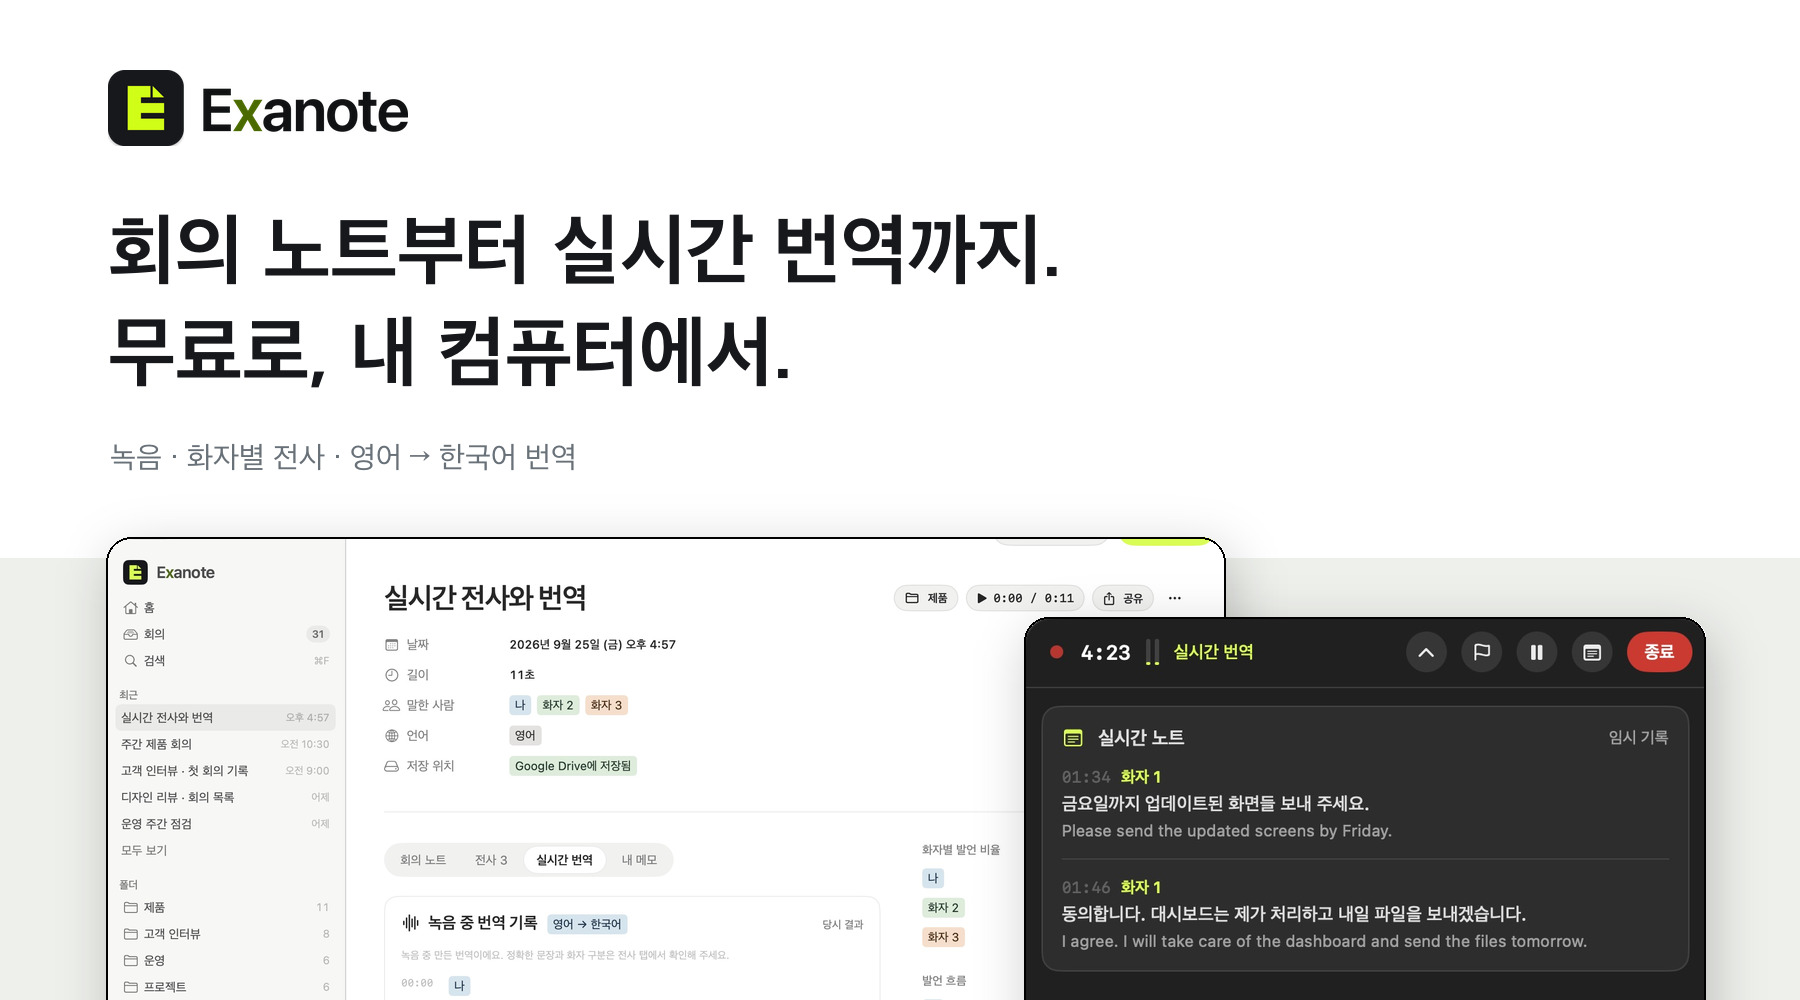
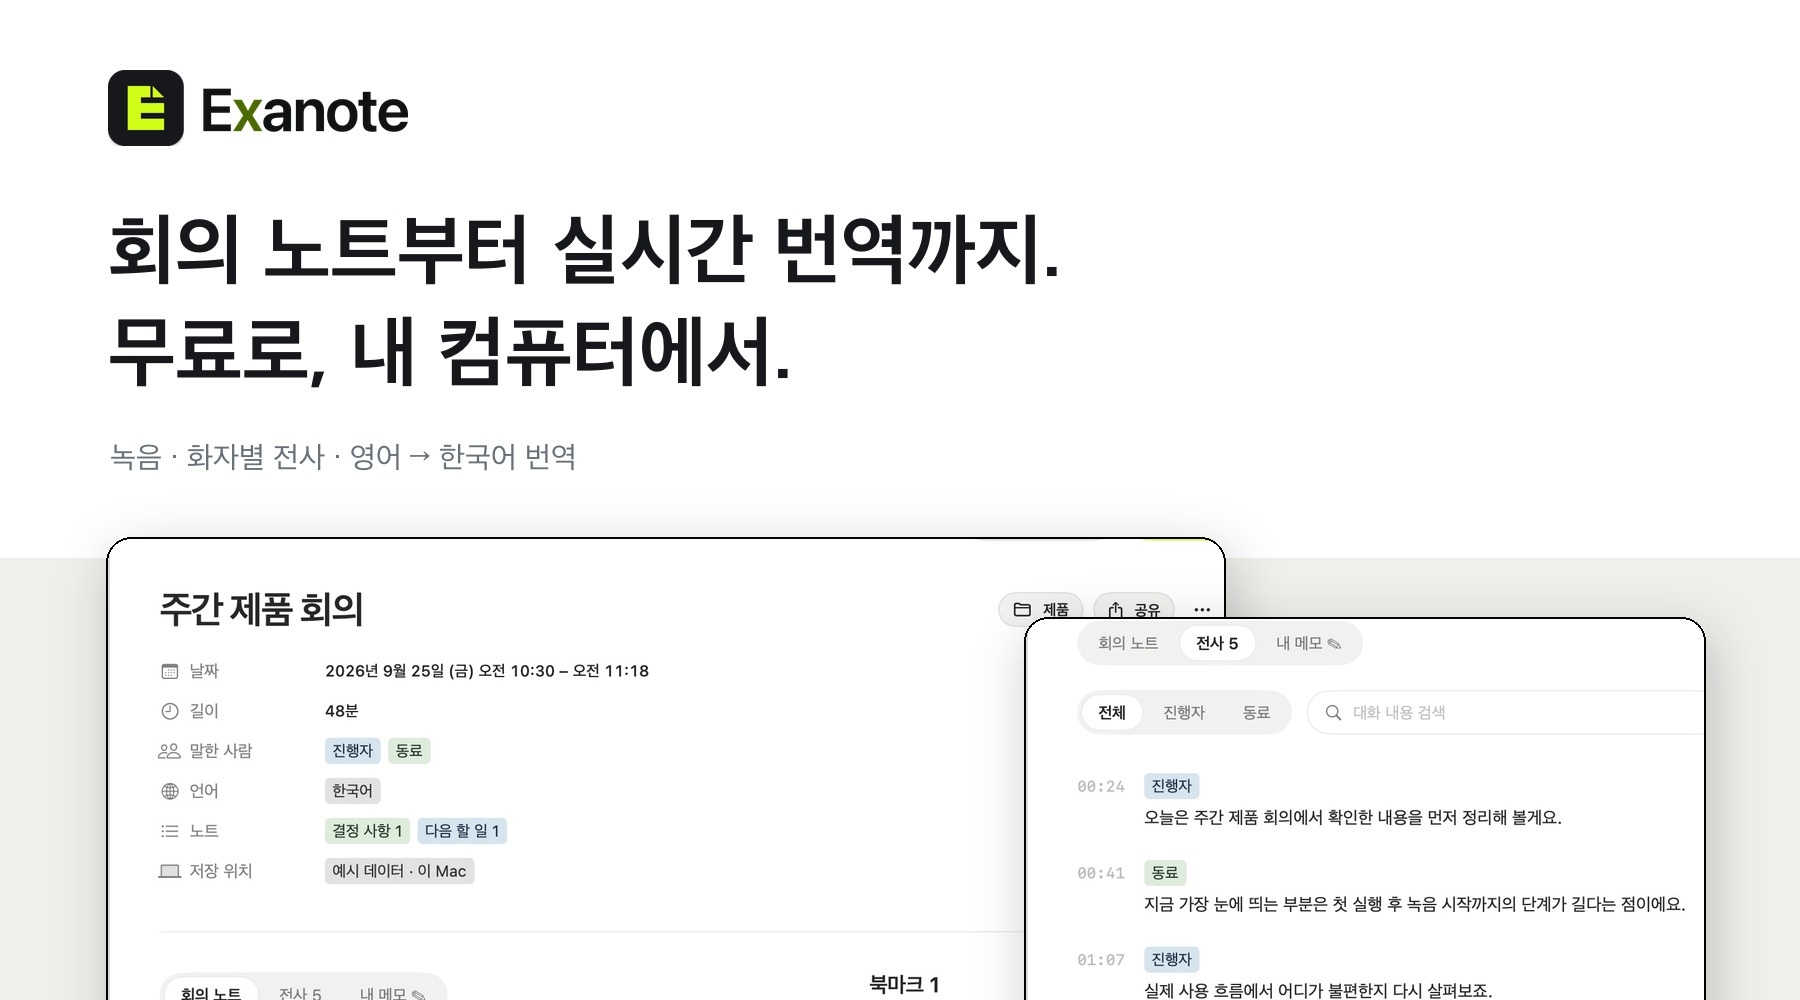
Show weekly product meeting in README hero

Changed region(s): [[0.4667, 0.589, 0.9644, 1.0], [0.0622, 0.558, 0.4044, 1.0], [0.6222, 0.527, 0.6844, 0.558]]

diff --git a/README.md b/README.md
@@ -1,5 +1,5 @@
 <p align="center">
-  <img src="docs/brand/exanote-hero.jpg" alt="Exanote에서 회의를 녹음하고 화자별 전사와 실시간 번역을 보는 화면">
+  <img src="docs/brand/exanote-hero.jpg" alt="Exanote 로고와 주간 제품 회의의 회의 노트 및 화자별 전사 화면">
 </p>
 
 <p align="center">
